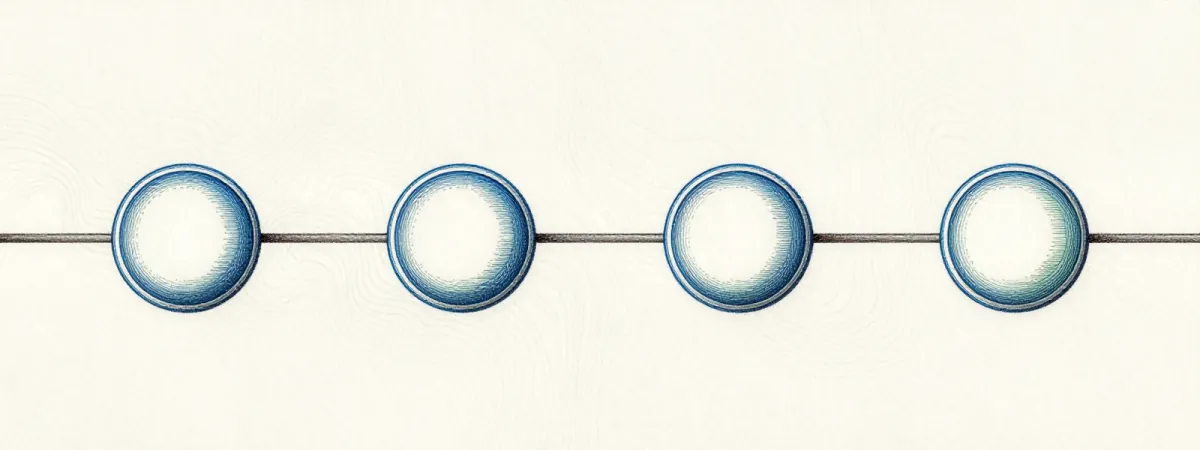
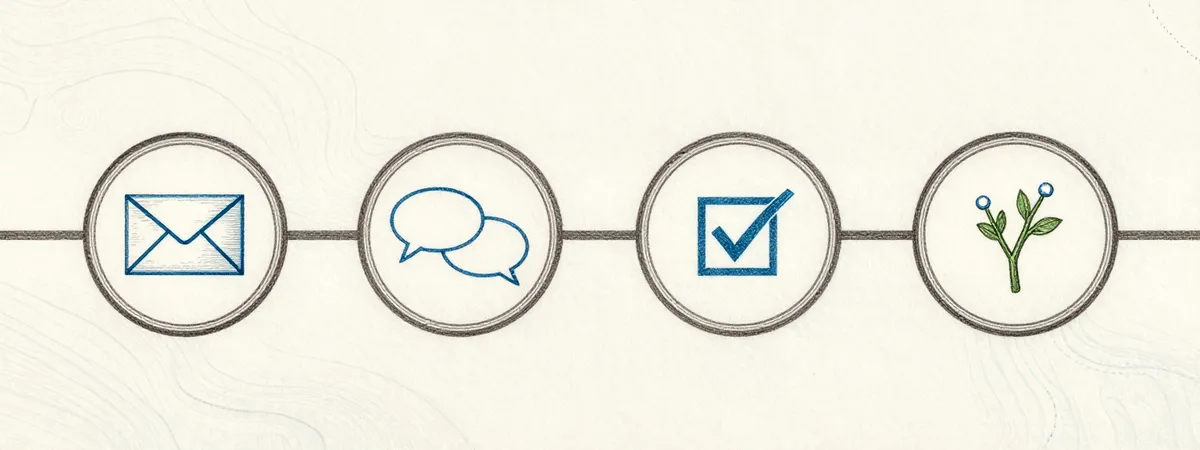
feat(portal): entrega del generador del 2026-11-14 (10b, portada de Voice, enviado oscuro)
«Cómo funciona» 10b (cuatro nodos con su dibujo) en /participa/unirse,
la portada en grabado de Voice (q909) en su tarjeta «próximamente» y la
versión oscura de «enviado» (19) en los formularios, con una regla
.solo-claro/.solo-oscuro que muestra la del tema. Entregados en
docs/marca.md y bitácora al día. npm run check en verde.

Quedan: og 24 de Tarkor y toVeriAI, y lo pedido de nuevo al generador.

Siguiente: revisión del diff contra origin/main y paso a main

Changed region(s): [[0.0, 0.28, 1.0, 0.7467]]

diff --git a/src/components/Formulario.tsx b/src/components/Formulario.tsx
@@ -103,13 +103,18 @@ export function PaginaFormulario({ titulo, intro, ilustracion, componer, childre
 
         {correo && (
           <div className="formulario-listo" role="status">
-            <img
-              className="formulario-listo-imagen"
-              src={ruta('marca/enviado.webp')}
-              alt=""
-              width={480}
-              height={360}
-            />
+            {/* Recurso 19, una por tema; el CSS (`.solo-claro`, `.solo-oscuro`) muestra la del tema. */}
+            {(['claro', 'oscuro'] as const).map((tema) => (
+              <img
+                key={tema}
+                className={`formulario-listo-imagen solo-${tema}`}
+                src={ruta(tema === 'claro' ? 'marca/enviado.webp' : 'marca/enviado-oscura.webp')}
+                alt=""
+                width={480}
+                height={360}
+                loading="lazy"
+              />
+            ))}
             <h2>
               <Check size={20} /> {t('form.listo.titulo')}
             </h2>

diff --git a/src/estilos/global.css b/src/estilos/global.css
@@ -2361,6 +2361,12 @@ button {
   margin-bottom: 16px;
 }
 
+/* Imagen con versión por tema: solo se ve la del tema activo. */
+:root[data-tema='claro'] .solo-oscuro,
+:root:not([data-tema='claro']) .solo-claro {
+  display: none;
+}
+
 .banda-cabecera {
   margin-bottom: clamp(24px, 4vw, 40px);
 }

diff --git a/docs/marca.md b/docs/marca.md
@@ -185,6 +185,9 @@ La vista previa (`og`) de un proyecto es siempre `tools/og/fuentes/<slug>/og-fue
 | 30 | 2026-11-13 | `public/marca/cabecera-novedades.webp` (1600×400) y `-mini.webp` (800) | Arriba de `/novedades`, como la del equipo (clase común `.banda-cabecera`) |
 | 4, 5 | 2026-11-13 | `public/marca/rosa-vientos.webp` y `sello.webp` (rosa a 280 px y sello a 144 px, con transparencia; no son los `.svg` que proponía la tabla de arriba) | Rosa: marca de agua al 12 % en la esquina inferior derecha del pie (`.pie-rosa`). Sello (05b con el monograma GV, 2026-11-13, de su SVG de una tinta a 144 px con transparencia): a 72 px junto a «Galicia + Develop» de «Cómo trabajamos» del inicio (`.sobre-sello`). En el tema oscuro, en negativo por CSS. Sitios elegidos por la persona (2026-11-13: «me vale»). **Provisional la rosa:** el generador la rechazó y la dibujará geométrica |
 | 4 (geométrica) | 2026-11-13 | `public/marca/rosa-vientos.webp` (280 px, `cwebp -q 90 -alpha_q 100`, desde `04b-rosa-vientos.png`, 1024 px con transparencia; dibujada por código con `gimg brand rose`, ocho puntas, un solo grosor) | El mismo sitio que la fila anterior (`.pie-rosa`); sustituye a la rosa provisional |
+| 10b | 2026-11-14 | `public/marca/como-funciona.webp` (1200×450, de `10-como-funciona.png`, q798: cuatro nodos con sobre, bocadillos, casilla y rama) | Banda de `/participa/unirse`; sustituye a la de las cuatro bolas. Su versión oscura (q886) se pidió rehecha: fondo y colores fuera de la paleta |
+| 15v (voz) | 2026-11-14 | `public/proyectos/galivelop-voice-generator/proxima.webp` (720×405, de `15v-portada-voz-q909.png`, 1600×900: boya de campana con ondas y banderín `#D9467A`, en grabado) | `imagen` de su entrada en `proximamente.json`; sustituye a la q331 (fondo de papel). Servirá de portada cuando Voice tenga ficha |
+| 19 (oscura) | 2026-11-14 | `public/marca/enviado-oscura.webp` (480×360, de `19-enviado-oscura.png`, q892) | `form.listo` de los formularios en el tema oscuro (`.solo-claro`/`.solo-oscuro` de `global.css`) |
 
 Por CSS, sin imagen (cancelados en el generador, 2026-11-11): 11, 16, 20 y 21 (el pie, cerúleo liso); la 22 no sale de gimg y el fondo sigue en color plano. La 14 se rehízo y llegó el 2026-11-12.
 

diff --git a/docs/handoff.md b/docs/handoff.md
@@ -9,7 +9,7 @@ Se actualiza en cada commit. Reglas en [`CLAUDE.md`](../CLAUDE.md).
 | **Actualizado** | 2026-11-13 (lote 25-30, rosa y sello, en `main`) |
 | **Rama de trabajo** | `claude/galivelop-dev-portal-1h89ci` (la que publica la tarea semanal); esta sesión, `ccr-47f8fddd-o5ek6p` (al día con `main`, 2026-11-13) |
 | **Tarea en curso** | Ninguna. El lote del generador del 2026-11-13 está en `main`; la rosa geométrica (04b) llegó el 2026-11-13 y está en la rama, aún no en `main`. Presupuesto de compactaciones: 1 |
-| **Siguiente paso** | La rosa geométrica (04b) ya está en `public/marca/rosa-vientos.webp` (2026-11-13; sin subir a `main`). Siguen en cola 10b, las versiones oscuras de 10, 18, 19, 27 y 28 y las portadas 31 (Workflow) y 32 (GVIG), pedidas el 2026-11-13 (`docs/marca.md`, tabla F) |
+| **Siguiente paso** | Entrega del 2026-11-14 aplicada (10b clara, portada de Voice, 19 oscura) junto con la rosa 04b. Aprobadas y sin aplicar: las og 24 de Tarkor y toVeriAI (esperan al icono 23 de Tarkor y a montar texto e icono sobre ellas). Pedidas de nuevo al generador: 31, 32 en grabado, iconos 23 en línea simple (GVIG, Voice y Tarkor) y las oscuras de 10b, 18, 27 y 28. Siguen en cola 10b, las versiones oscuras de 10, 18, 19, 27 y 28 y las portadas 31 (Workflow) y 32 (GVIG), pedidas el 2026-11-13 (`docs/marca.md`, tabla F) |
 | **En `main`** | **Iconos de grupo (25), marcadores del avance (26), banda 29 clara y oscura, cabecera 30, rosa y sello** (f7ce483, 2026-11-13, la persona: «llévalo a main»; fase 1 y 3, sin retro por ser cambio pequeño; CI en verde en edbdd74). Lo anterior, en «Hecho» y en `git log origin/main`. https://zeldris.github.io/Portal-Galivelop/ |
 | **Tests** | `npm run check`: tsc 0 errores, `prettier --check` de `src/`, vitest 202/202 (23 archivos) y `tools/qa/tests/test-ganchos.sh`. `npm run build` correcto (42 páginas estáticas, sitemap, robots y llms) |
 
